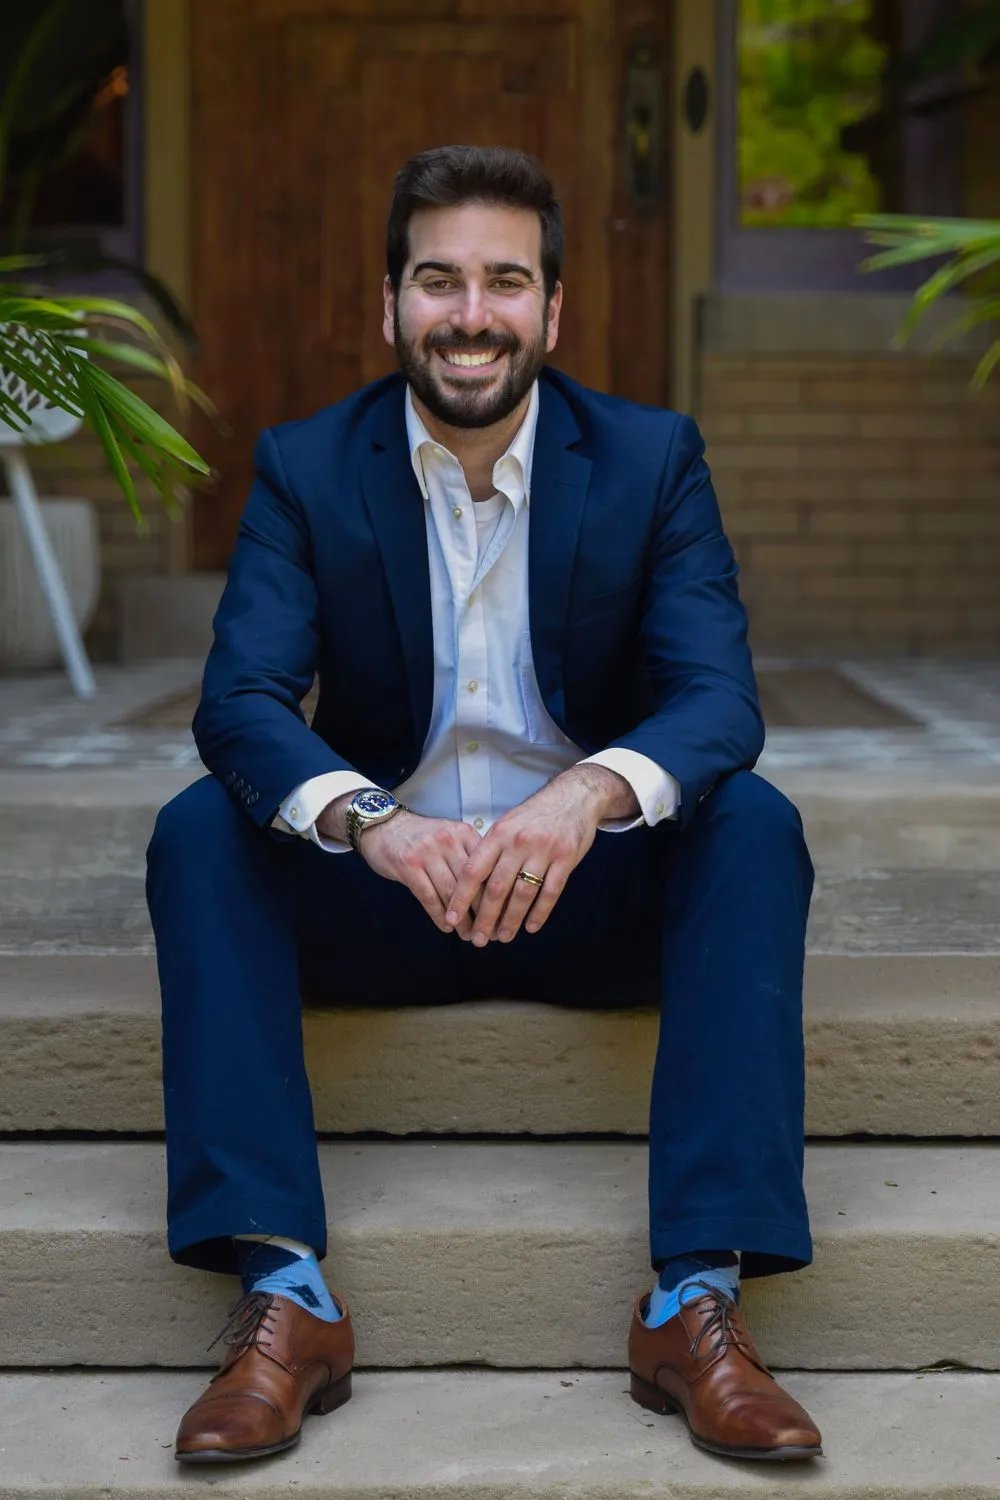
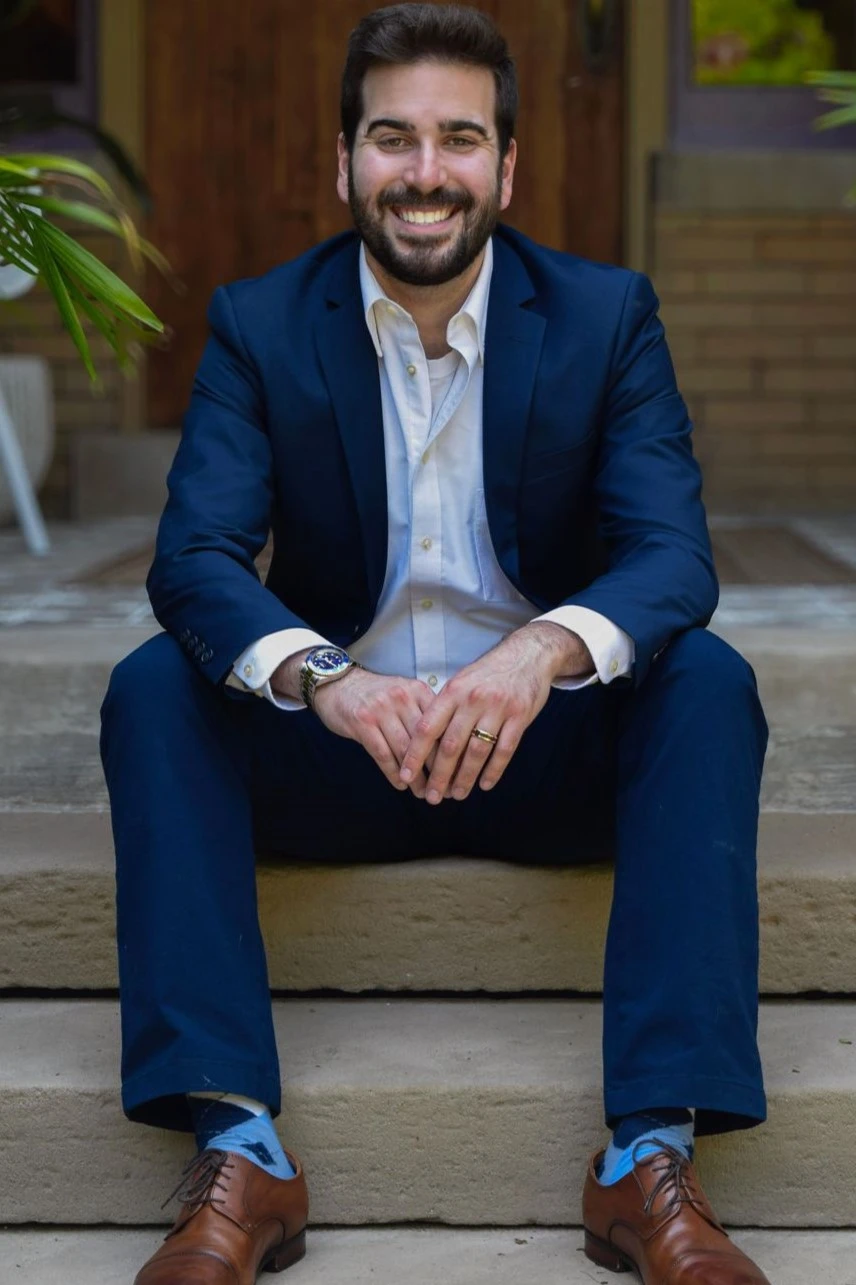
Updates to stuff lookin crispy

diff --git a/src/Sections/About.js b/src/Sections/About.js
@@ -2,7 +2,7 @@ const About = () => {
   const andrewImage = process.env.PUBLIC_URL + "/imgs/andrew.webp";
 
   return (
-    <div className="bg-white min-h-[80vh] rounded-t-2xl">
+    <div className="bg-white min-h-[80vh] pb-10">
       <div className="w-full md:w-3/5 mx-auto pt-16 px-6">
         <div className="grid gird-cols-1 md:grid-cols-2 gap-6">
           <div className="text-black px-4 h-full flex flex-col justify-evenly">
@@ -23,7 +23,7 @@ const About = () => {
           </div>
           <img
             src={andrewImage}
-            className="mx-auto rounded-xl w-full"
+            className="mx-auto rounded-xl w-4/5"
             alt="Andrew Smiling in a suit"
           />
         </div>

diff --git a/src/Sections/Services.js b/src/Sections/Services.js
@@ -50,7 +50,7 @@ const Services = () => {
   );
 
   return (
-    <div className="w-full min-h-screen bg-whitebg-100 py-16 rounded-t-2xl">
+    <div className="w-full min-h-screen bg-whitebg-100 py-16">
       <div className="w-full md:w-3/5 mx-auto px-8 md:px-0">
         <h4 id="services">Services</h4>
         <h2 className="mt-6 mb-8">How I Can Help.</h2>

diff --git a/src/Sections/Contact.js b/src/Sections/Contact.js
@@ -1,6 +1,6 @@
 const Contact = () => {
   return (
-    <section id="contact" className="py-24 bg-whitebg-100">
+    <section id="contact" className="py-24 bg-whitebg">
       <div className="mx-auto max-w-7xl px-4 sm:px-6 lg:px-8">
         <div className="grid lg:grid-cols-2 grid-cols-1">
           <div className="lg:mb-0 mb-10">

diff --git a/src/Sections/Footer.js b/src/Sections/Footer.js
@@ -1,6 +1,6 @@
 const Footer = () => (
   <footer
-    className="w-full bg-white py-4 border-t border-base-300"
+    className="w-full bg-whitebg-100 py-4 border-t border-base-300"
     aria-label="Site disclaimer and copyright"
     style={{
       scrollSnapAlign: "start",
